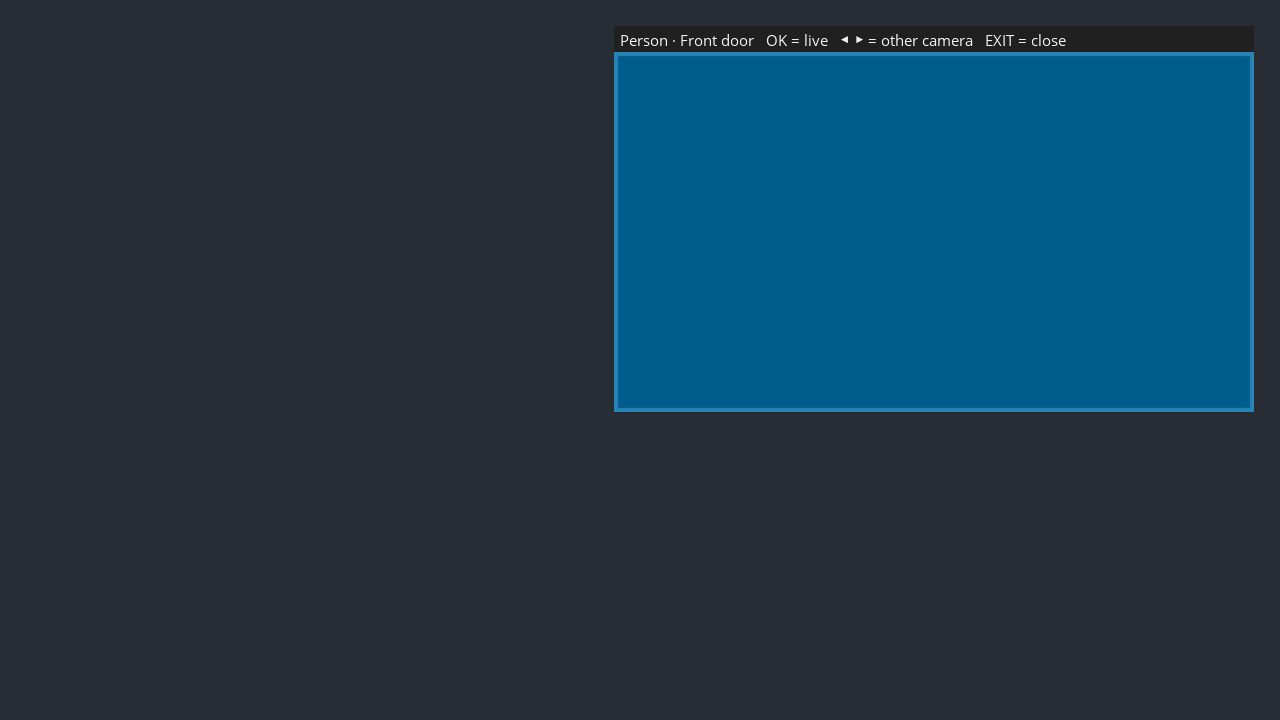
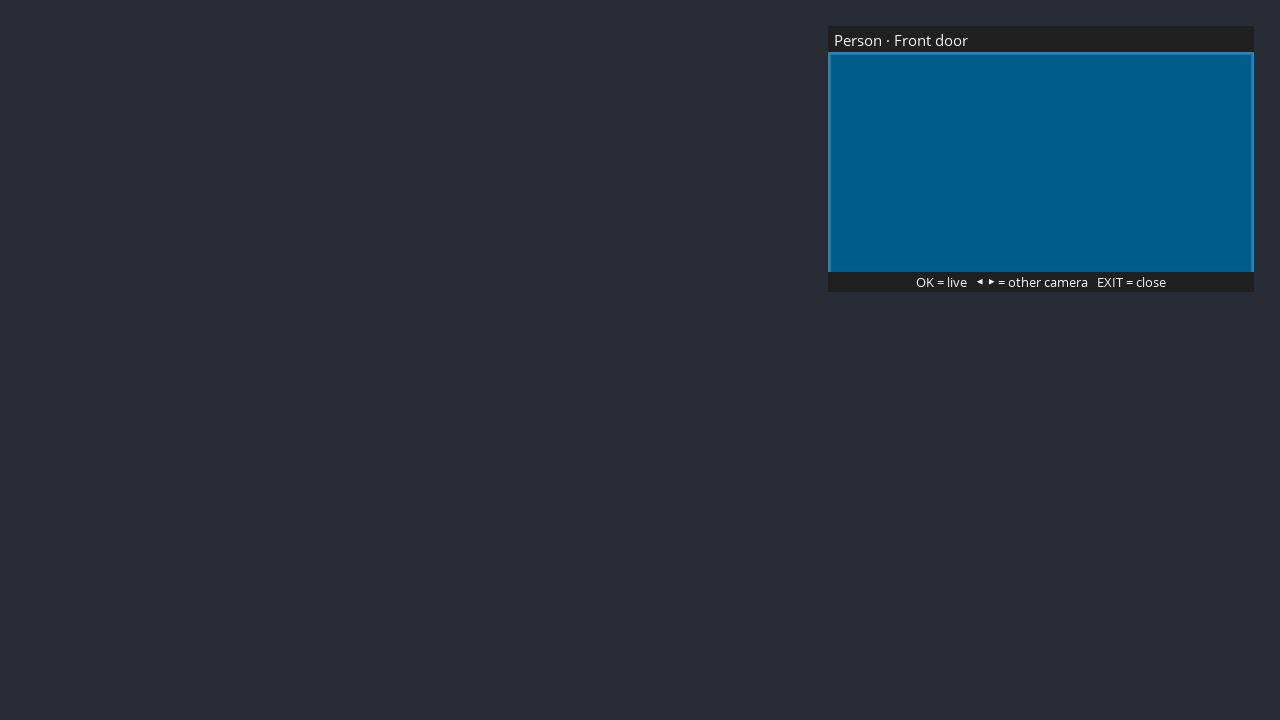
docs: Enigma2-screenshots vernieuwd op openATV 8.0.1 (refs #57)
Alle Enigma2-schermen opnieuw gemaakt op een VU+ Solo 4K met de huidige
main (instellingen met de nieuwe rijen Pictures from UniFi Protect en
Keep cameras ready, fotovenster, melding, venster met meerdere camera's,
mozaïek, rondgang, HELP, gebeurtenissenlijst met genegeerd verzoek,
diagnose), met de nep-go2rtc en demo-instellingen; alleen het OSD,
plat op #282c34, gestript met check_images. MetrixHD tekent het OSD op
1280x720 (ook bij 2160p video), dus de beelden blijven 1280x720;
1920x1080 vraagt een FHD-skin. screenshots.md: resolutie uitgelegd,
go2rtc via pid stoppen, saveconfig staat pas na init 4 op schijf.

Changed region(s): [[0.4688, 0.0306, 1.0, 0.5806]]

diff --git a/docs/dev/screenshots.md b/docs/dev/screenshots.md
@@ -21,8 +21,10 @@ Screenshots in the docs show **only CamAlert's own screens**, never a camera pic
 | `images/kodi/menu.png` | Kodi choice list when CamAlert is opened from *Program add-ons* (#106), cropped to the dialog |
 | `images/kodi/camera-list.png` | Kodi video add-on: the camera list with a demo camera selected (#107), full screen |
 
-The Enigma2 screenshots were taken on openATV 8.0.1 with its default skin (MetrixHD, 1280x720 OSD); the Kodi
-screenshots on Kodi 21 (LibreELEC) with Estuary at 1920x1080, cropped and scaled to 2/3.
+The Enigma2 screenshots were taken on openATV 8.0.1 with its default skin (MetrixHD; last refresh 27-11-2026 on a
+VU+ Solo 4K with CamAlert 1.1.0+). MetrixHD draws its OSD at 1280x720 even with a 2160p video mode (framebuffer
+1280x720), so the grabs are 1280x720; 1920x1080 grabs need an FHD skin, which we do not switch to for screenshots.
+The Kodi screenshots were taken on Kodi 21 (LibreELEC) with Estuary at 1920x1080, cropped and scaled to 2/3.
 
 ## How to take them (Enigma2)
 
@@ -41,8 +43,10 @@ screenshots on Kodi 21 (LibreELEC) with Estuary at 1920x1080, cropped and scaled
 4. **Grab the OSD only:** `http://<receiver>/grab?format=png&mode=osd` (no video layer, so no TV picture). The OSD
    is transparent where the TV would be: flatten it on a neutral dark grey (`#282c34`). Navigate with
    `/api/remotecontrol?command=<key code>`.
-5. **Restore everything:** `init 4`, put back the settings file and `camalert.log`, stop the fake go2rtc, `init 3`,
-   then restore the channel. Check that the CamAlert channel list did not change.
+5. **Restore everything:** `init 4`, put back the settings file and `camalert.log`, stop the fake go2rtc (by its
+   pid), `init 3`, then restore the channel. Check that the CamAlert channel list did not change. A setting changed
+   through OpenWebif `/api/saveconfig` is only in memory until Enigma2 saves its settings (at `init 4`): a backup
+   taken before that misses it, so check such settings after the restore.
 6. Look at every picture at full size (privacy checklist), crop away other plugins or vendor pictures, then
    `python3 tools/check_images.py --strip <files>` and `python3 tools/check_images.py .`.
 
